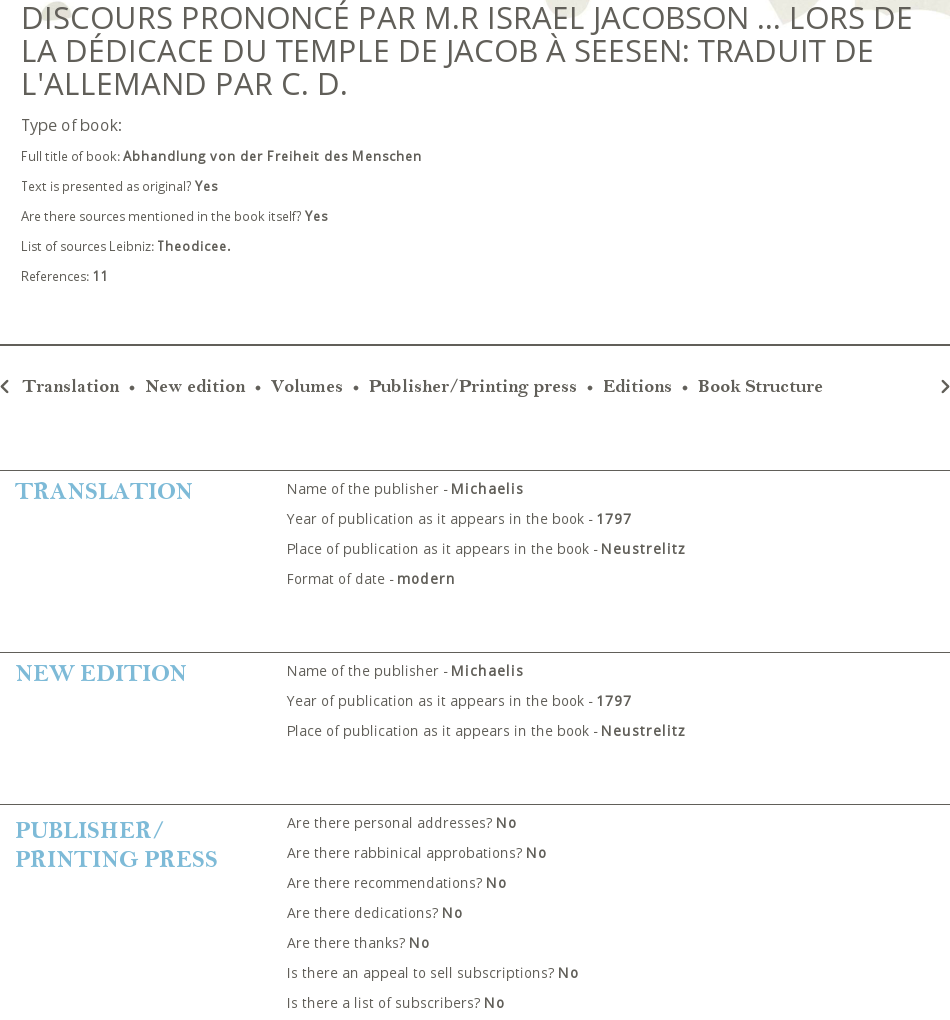
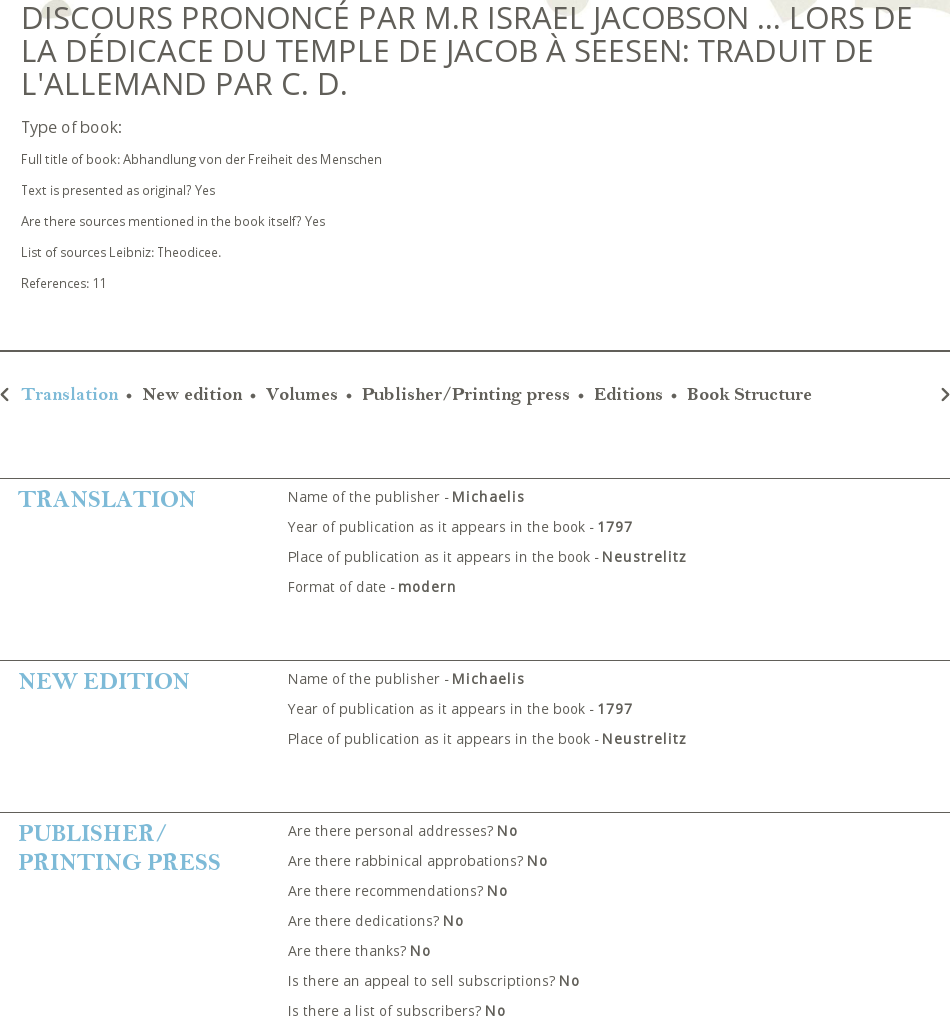
Test over fixes

diff --git a/jekyll/app/_scss/_book.scss b/jekyll/app/_scss/_book.scss
@@ -25,12 +25,13 @@
     }
 
     .hr-title {
-      margin: 13px 0 62px;
+      margin: 15px 0 62px;
       font-size: 24px;
       letter-spacing: 2px;
 
       &:before, &:after {
         width: 45%;
+        padding-top: 8px;
       }
     }
 
@@ -40,7 +41,7 @@
 
       #top-details {
 
-        padding: 0 21px 53px;
+        padding: 0 21px 51px;
         border-bottom: 2px solid $darkgray;
         margin-bottom: 31px;
 
@@ -49,7 +50,7 @@
           font-weight: normal;
           line-height: 1.07;
           text-transform: uppercase;
-          margin-bottom: 12px;
+          margin-bottom: 14px;
           letter-spacing: -0.5px;
         }
 
@@ -100,7 +101,7 @@
           li {
             display: list-item;
             list-style-type: disc;
-            margin: 0 13px;
+            margin: 0 12px;
             float: left;
             font-size: 14px;
 
@@ -160,13 +161,13 @@
 
       #groups {
         clear: both;
-        padding-top: 17px;
+        padding-top: 15px;
 
         .fields-group {
 
           border-top: 1px solid $darkgray;
           clear: both;
-          padding: 6px 15px 2px;
+          padding: 6px 18px 2px;
           margin-top: 56px;
 
           .fields-group-name {
@@ -183,7 +184,6 @@
             display: inline-block;
             width: 60%;
             margin-top: -3px;
-            margin-left: 2px;
             font-size: 14px;
 
             .field-item {

diff --git a/jekyll/app/_scss/main.scss b/jekyll/app/_scss/main.scss
@@ -220,6 +220,10 @@ a, a:hover, a:visited {
           width: 100%;
         }
 
+        &.active a {
+          color: $lightBlue;
+        }
+        
         &.last {
           padding-right: 0;
           background: none;
@@ -253,7 +257,8 @@ a, a:hover, a:visited {
             width: 28px;
           }
 
-          &:hover:before {
+          &:hover:before,
+          &.active:before {
             background-position: 0 -50px;
           }
         }
@@ -264,7 +269,8 @@ a, a:hover, a:visited {
             width: 28px;
           }
 
-          &:hover:before {
+          &:hover:before,
+          &.active:before {
             background-position: -50px -50px;
           }
         }
@@ -275,7 +281,8 @@ a, a:hover, a:visited {
             width: 36px;
           }
 
-          &:hover:before {
+          &:hover:before,
+          &.active:before {
             background-position: -100px -50px;
           }
         }
@@ -286,7 +293,8 @@ a, a:hover, a:visited {
             width: 23px;
           }
 
-          &:hover:before {
+          &:hover:before,
+          &.active:before {
             background-position: -150px -50px;
           }
         }
@@ -352,12 +360,7 @@ a, a:hover, a:visited {
       }
 
       li.login {
-        padding: 1px 15px 0px 15px;
         text-transform: uppercase;
-
-        a {
-          font: 14px bell_mtbold;
-        }
       }
     }
   }

diff --git a/jekyll/app/_includes/footer.html b/jekyll/app/_includes/footer.html
@@ -1,9 +1,10 @@
 <footer>
   <nav class="icons-nav nav-bar footer-nav-bar">
-    <ul class="menu nav"><li class="first leaf active"><a href="" title="" class="active">Books</a></li>
-      <li class="leaf active"><a href="" title="" class="active">Digital Books</a></li>
-      <li class="leaf active"><a href="" title="" class="active">People</a></li>
-      <li class="last leaf active"><a href="" title="" class="active">Places</a></li>
+    <ul class="menu nav">
+      <li class="first leaf active"><a href="" title="" class="active">Books</a></li>
+      <li class="leaf"><a href="" title="">Digital Books</a></li>
+      <li class="leaf"><a href="" title="">People</a></li>
+      <li class="last leaf"><a href="" title="">Places</a></li>
     </ul>
   </nav>
 
@@ -12,7 +13,7 @@
       <ul>
         <li class="first"><a href="#">Add a book</a></li>
         <li><a href="#">Add a book series</a></li>
-        <li class="last"><a href="#">Add a person</a></li>
+        <li><a href="#">Add a person</a></li>
         <li class="last login"><a href="#">Login</a></li>
       </ul>
     </nav>
